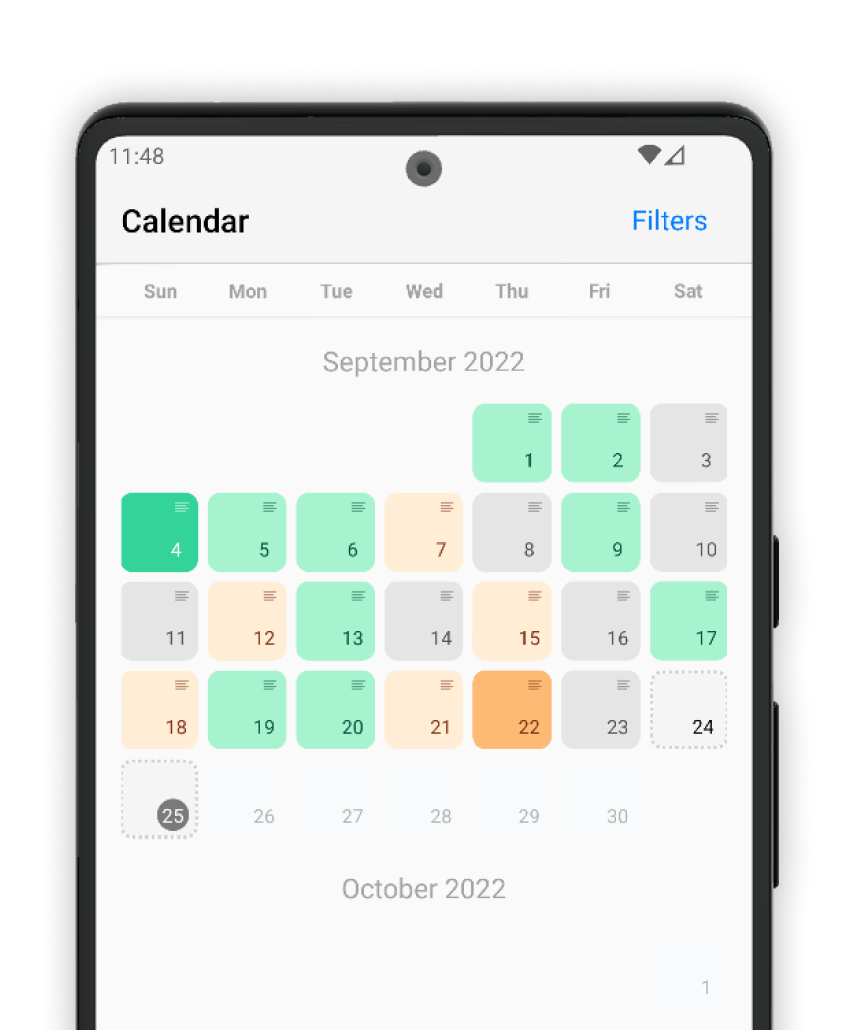
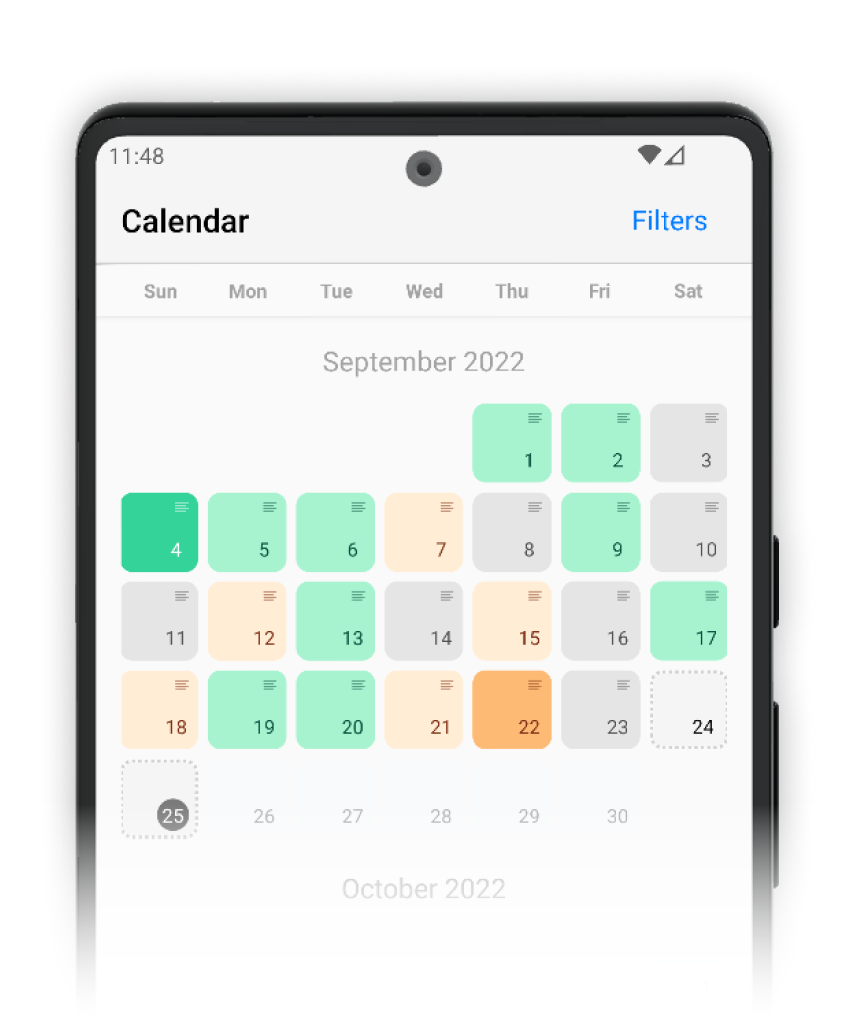
feat(onboarding): fade cut-off screenshots into the sky
Screenshots that end at the image edge now fade out, so they float on
the sky instead of ending in a hard line. The welcome screenshots are
gone: the first slide shows only the tagline.

Changed region(s): [[0.0607, 0.7767, 0.1215, 1.0], [0.8505, 0.7767, 0.9112, 1.0], [0.3949, 0.8388, 0.5771, 0.8699]]

diff --git a/src/features/onboarding/screens/onboarding/header-image.tsx b/src/features/onboarding/screens/onboarding/header-image.tsx
@@ -4,28 +4,24 @@ import { Platform, useColorScheme } from "react-native";
 
 const HEADER_IMAGES = {
   androidDark: [
-    require(`../../../../../assets/images/onboarding/android-dark-1.png`),
     require(`../../../../../assets/images/onboarding/android-dark-2.png`),
     require(`../../../../../assets/images/onboarding/android-dark-3.png`),
     require(`../../../../../assets/images/onboarding/android-dark-4.png`),
     require(`../../../../../assets/images/onboarding/android-dark-5.png`),
   ],
   androidLight: [
-    require(`../../../../../assets/images/onboarding/android-light-1.png`),
     require(`../../../../../assets/images/onboarding/android-light-2.png`),
     require(`../../../../../assets/images/onboarding/android-light-3.png`),
     require(`../../../../../assets/images/onboarding/android-light-4.png`),
     require(`../../../../../assets/images/onboarding/android-light-5.png`),
   ],
   iosDark: [
-    require(`../../../../../assets/images/onboarding/ios-dark-1.png`),
     require(`../../../../../assets/images/onboarding/ios-dark-2.png`),
     require(`../../../../../assets/images/onboarding/ios-dark-3.png`),
     require(`../../../../../assets/images/onboarding/ios-dark-4.png`),
     require(`../../../../../assets/images/onboarding/ios-dark-5.png`),
   ],
   iosLight: [
-    require(`../../../../../assets/images/onboarding/ios-light-1.png`),
     require(`../../../../../assets/images/onboarding/ios-light-2.png`),
     require(`../../../../../assets/images/onboarding/ios-light-3.png`),
     require(`../../../../../assets/images/onboarding/ios-light-4.png`),
@@ -41,8 +37,9 @@ const DECORATIVE = {
 } as const;
 
 /**
- * Onboarding screenshot for the platform and color scheme; `index` must be
- * 0 to 4. expo-image has no intrinsic size: `style` must set both width and
+ * Onboarding screenshot for the platform and color scheme; `index` is the
+ * slide index and must be 1 to 4. Cut-off screenshots fade out at the
+ * bottom, so they sit on the sky without a hard edge. expo-image has no intrinsic size: `style` must set both width and
  * height (or `flex`).
  */
 export const HeaderImage = ({
@@ -62,8 +59,8 @@ export const HeaderImage = ({
         {...DECORATIVE}
         source={
           isAndroid
-            ? HEADER_IMAGES.androidDark[index]
-            : HEADER_IMAGES.iosDark[index]
+            ? HEADER_IMAGES.androidDark[index - 1]
+            : HEADER_IMAGES.iosDark[index - 1]
         }
       />
     );
@@ -74,8 +71,8 @@ export const HeaderImage = ({
       {...DECORATIVE}
       source={
         isAndroid
-          ? HEADER_IMAGES.androidLight[index]
-          : HEADER_IMAGES.iosLight[index]
+          ? HEADER_IMAGES.androidLight[index - 1]
+          : HEADER_IMAGES.iosLight[index - 1]
       }
     />
   );
